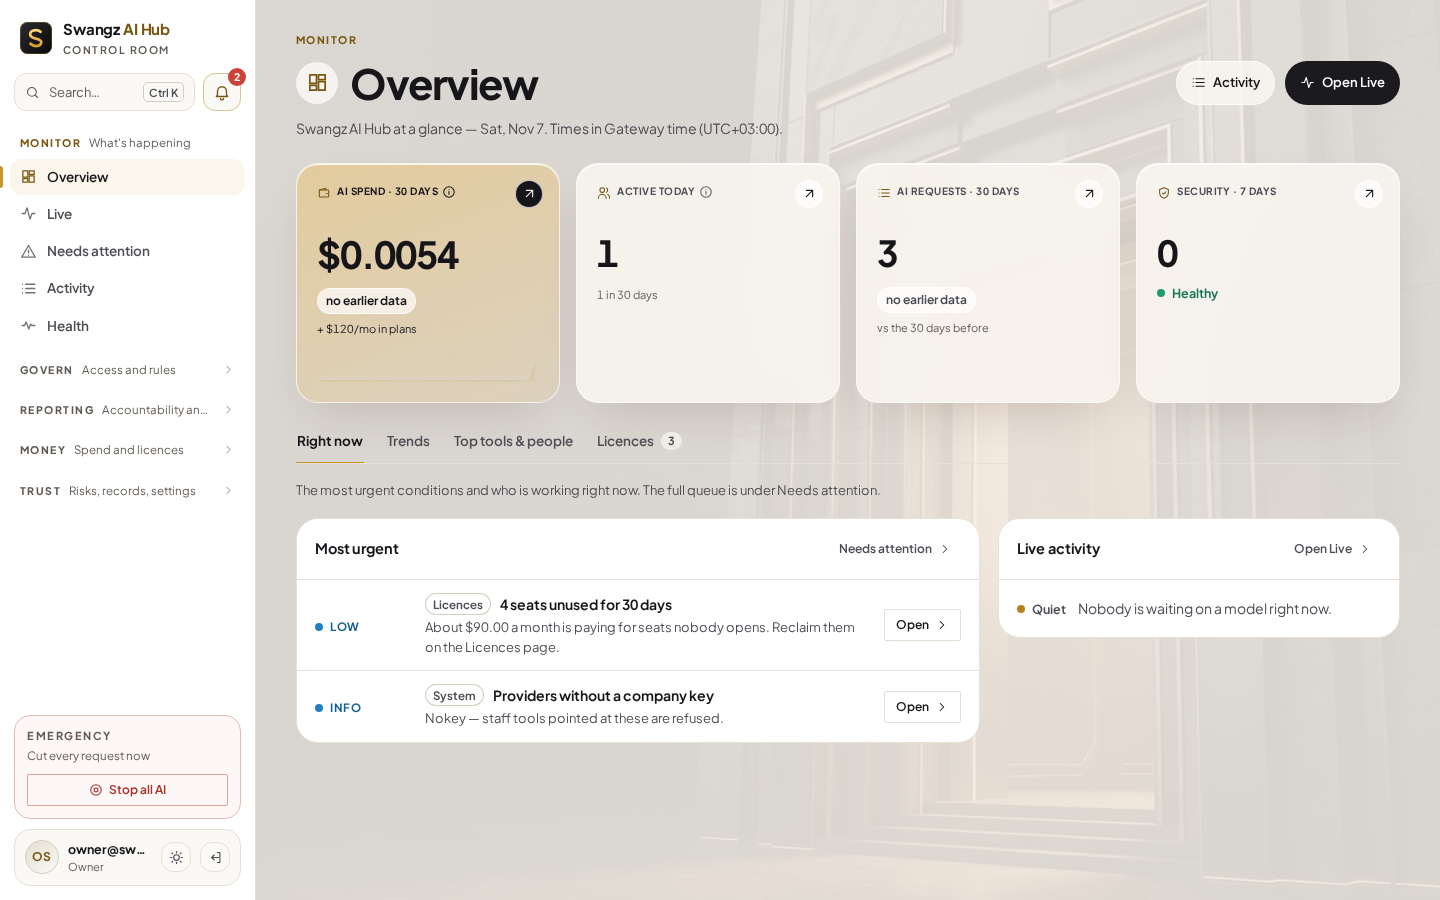
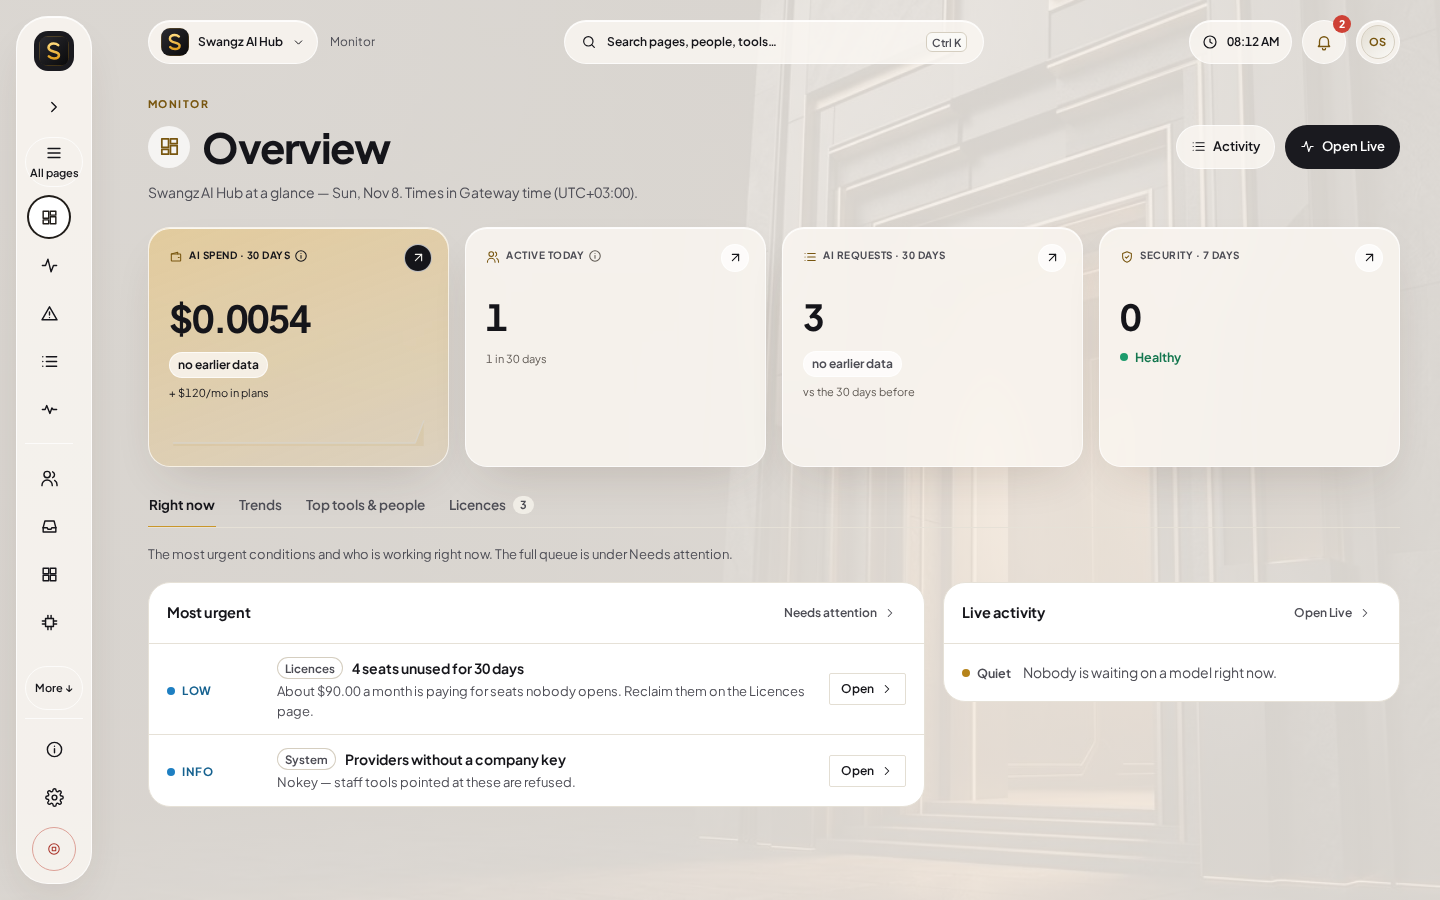
Record current main integration for overview glass review

diff --git a/docs/screenshots/glass-r4/README.md b/docs/screenshots/glass-r4/README.md
@@ -3,8 +3,7 @@
 Dependency: PR #40, exact `42ce9b7e98c1152878cf094dbf588c3d75684db6`.
 Branch `feature/glass-r4` starts there; relative product changes are limited to
 `gateway/static/ui.css` header/KPI selectors and `admin-monitor.js`. The PR is
-against main and includes inherited R5 chart changes until #40 merges. R2 and
-R3 are separate and are not present in these screenshots.
+against main and includes inherited R5 chart changes until #40 merges. R2/R3 are now on main and present in the refreshed screenshots.
 
 Overview keeps its title, navigation, price context, source periods, security
 posture and existing links. The existing trends API supplies a fourth card,
@@ -48,7 +47,7 @@ The four exact viewport screenshots are `admin-1440-dark.png`,
 - Approved Swangz architecture replaces the reference room photograph; stronger material protects contrast.
 - Porcelain retains the existing dark primary-action token while dark mode uses gold.
 - Phones use two columns and wrapped period labels; the reference has no phone layout.
-- Sidebar/top bar and non-KPI data panels remain as on dependency #40; their redesigns are separate.
+- Sidebar/top bar now come from refreshed main; non-KPI panels retain their existing presentation.
 - No count-up, page cross-fade or new chart behavior is included in this bounded treatment.
 
 Not run: full local suite/role matrix (Actions), real devices, Safari/Firefox,
@@ -59,3 +58,32 @@ current axe scans cover these synthetic screens, not all future content.
 Chrome DevTools/Motion/mounted browser actions and peer coordination tools were
 not exposed; the existing supported browser harness was used. Independent QA and
 new-head CI remain pending. Nothing deployed or merged.
+
+
+## Current-main refresh while shared files remain reserved — 8 November
+
+Normally merged main `a0f7dad941f44f79e87b1439cff0ddbcbbc426d1` without
+conflicts as `2d57ae95b0c0c3ea26cca73e82e2e6bf5509a11b`. Before merging,
+confirmed main had no ui.css/ui.js changes relative to the common ancestor.
+After merging, exact comparisons prove both shared files, admin-monitor.js and
+the focused R4 harness are byte-identical to old R4 head
+`8cdc8eaae29a1229bb79c4ae6faef9d8d472ea76`. The inherited shared browser
+harness matches main; no hand edits to it or workflows. Identity evidence:
+`main-refresh-identity.json`. No product source edits or conflict resolutions.
+
+`UI_TOOLING=/home/inquiline/swangz-team/swangz-gateway/.worktrees/glass-r1/tests/browser/node_modules node docs/screenshots/glass-r4/check.cjs`:
+`PASS 44 focused checks; 4 screenshots`, exit0; four main-content axe scans
+with zero findings, no browser exceptions. `python3 -m unittest tests.test_portal
+tests.test_hub`: `Ran 56 tests in 51.811s`, `OK`, exit0. `git diff --check`:
+exit0. Inspected all four regenerated exact desktop/phone light/dark screenshots.
+
+Dependency integration remains BLOCKED: R4 still contains old R5 base42ce9b7;
+PR40 is open at corrected `f25b65c7366a6cba0001b5f0e6a3a9810dcb4df2`, whose
+ui.css/ui.js differ. Those files remain Forge-reserved, so no corrected-R5 merge
+was performed. Existing R4 phone spacing gaps remain untouched in shared CSS.
+Keep draft until corrected dependency integration, renewed targeted checks, fresh
+CI and independent exact-head QA clear. Bell badge Low is separately addressed
+by PR50, not included in this branch. R8 not started: dependency and three-new-
+build cap remain constraints. Full local suite/matrix, real devices/other engines,
+screen readers and hardware performance/CLS/MotionScore: Not run. All local
+checks finished. No new draft/build for R4, deployment or merge to main.

diff --git a/docs/AGENT-PROGRESS.md b/docs/AGENT-PROGRESS.md
@@ -375,3 +375,32 @@ local suite/role matrix, new hardware performance/CLS/MotionScore, real devices,
 other engines and screen readers: Not run. Fresh final-head Actions and Probe
 QA remain required. Parent42 is now merged; PR48's diff is header/task evidence
 only. No scope expansion, new build/PR, deployment or merge to main.
+
+
+## R4 existing PR44 current-main refresh while shared files remain reserved — 8 November
+
+Normally merged main `a0f7dad941f44f79e87b1439cff0ddbcbbc426d1` without
+conflicts as `2d57ae95b0c0c3ea26cca73e82e2e6bf5509a11b`. Before merging,
+confirmed main had no ui.css/ui.js changes relative to the common ancestor.
+After merging, exact comparisons prove both shared files, admin-monitor.js and
+the focused R4 harness are byte-identical to old R4 head
+`8cdc8eaae29a1229bb79c4ae6faef9d8d472ea76`. The inherited shared browser
+harness matches main; no hand edits to it or workflows. Identity evidence:
+`main-refresh-identity.json`. No product source edits or conflict resolutions.
+
+`UI_TOOLING=/home/inquiline/swangz-team/swangz-gateway/.worktrees/glass-r1/tests/browser/node_modules node docs/screenshots/glass-r4/check.cjs`:
+`PASS 44 focused checks; 4 screenshots`, exit0; four main-content axe scans
+with zero findings, no browser exceptions. `python3 -m unittest tests.test_portal
+tests.test_hub`: `Ran 56 tests in 51.811s`, `OK`, exit0. `git diff --check`:
+exit0. Inspected all four regenerated exact desktop/phone light/dark screenshots.
+
+Dependency integration remains BLOCKED: R4 still contains old R5 base42ce9b7;
+PR40 is open at corrected `f25b65c7366a6cba0001b5f0e6a3a9810dcb4df2`, whose
+ui.css/ui.js differ. Those files remain Forge-reserved, so no corrected-R5 merge
+was performed. Existing R4 phone spacing gaps remain untouched in shared CSS.
+Keep draft until corrected dependency integration, renewed targeted checks, fresh
+CI and independent exact-head QA clear. Bell badge Low is separately addressed
+by PR50, not included in this branch. R8 not started: dependency and three-new-
+build cap remain constraints. Full local suite/matrix, real devices/other engines,
+screen readers and hardware performance/CLS/MotionScore: Not run. All local
+checks finished. No new draft/build for R4, deployment or merge to main.
